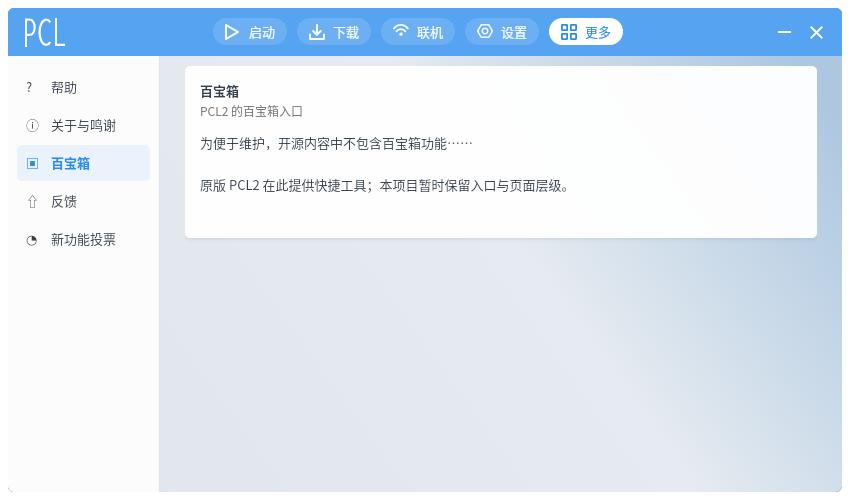
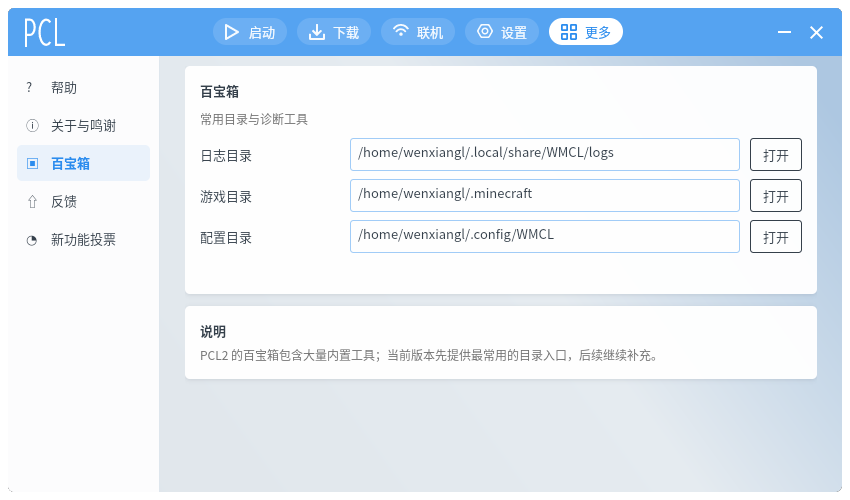
UI: functional toolbox page

Changed region(s): [[0.2141, 0.21, 0.9788, 0.78], [0.8565, 0.27, 0.8871, 0.3]]

diff --git a/src/WMCL.App/ViewModels/ToolboxViewModel.cs b/src/WMCL.App/ViewModels/ToolboxViewModel.cs
@@ -1,0 +1,53 @@
+using System.Diagnostics;
+using CommunityToolkit.Mvvm.ComponentModel;
+using CommunityToolkit.Mvvm.Input;
+using WMCL.App.Services;
+using WMCL.Core;
+
+namespace WMCL.App.ViewModels;
+
+public partial class ToolboxViewModel : ViewModelBase
+{
+    private readonly AppServices _services;
+
+    public ToolboxViewModel(AppServices services)
+    {
+        _services = services;
+    }
+
+    public string LogsDirectory => WmclPaths.LogsDirectory;
+    public string GameDirectory => _services.Settings.GameDirectory;
+    public string ConfigDirectory => WmclPaths.ConfigDirectory;
+
+    [ObservableProperty]
+    private string _status = "";
+
+    [RelayCommand]
+    private void OpenLogs() => Open(WmclPaths.LogsDirectory);
+
+    [RelayCommand]
+    private void OpenGame() => Open(_services.Settings.GameDirectory);
+
+    [RelayCommand]
+    private void OpenConfig() => Open(WmclPaths.ConfigDirectory);
+
+    private void Open(string path)
+    {
+        try
+        {
+            Directory.CreateDirectory(path);
+            var start = new ProcessStartInfo
+            {
+                FileName = OperatingSystem.IsWindows() ? path : "xdg-open",
+                Arguments = OperatingSystem.IsWindows() ? "" : path,
+                UseShellExecute = OperatingSystem.IsWindows()
+            };
+            Process.Start(start);
+            Status = "已打开：" + path;
+        }
+        catch (Exception ex)
+        {
+            Status = "打开失败：" + ex.Message;
+        }
+    }
+}

diff --git a/src/WMCL.App/ViewModels/MainWindowViewModel.cs b/src/WMCL.App/ViewModels/MainWindowViewModel.cs
@@ -63,11 +63,7 @@ public partial class MainWindowViewModel : ViewModelBase, IDisposable
             + "PCL2 官方房间服务依赖闭源配置，开源版无法获取，因此这里提供替代方案；"
             + "官方房间码/自动房间列表不可用。");
         Help = new HelpViewModel();
-        Toolbox = new MorePageViewModel(
-            "百宝箱",
-            "PCL2 的百宝箱入口",
-            "为便于维护，开源内容中不包含百宝箱功能……\n\n"
-            + "原版 PCL2 在此提供快捷工具；本项目暂时保留入口与页面层级。");
+        Toolbox = new ToolboxViewModel(Services);
         Feedback = new MorePageViewModel(
             "反馈",
             "问题反馈与诊断信息",
@@ -329,7 +325,7 @@ public partial class MainWindowViewModel : ViewModelBase, IDisposable
     public LinkViewModel Link { get; }
     public MorePageViewModel LinkSettings { get; }
     public HelpViewModel Help { get; }
-    public MorePageViewModel Toolbox { get; }
+    public ToolboxViewModel Toolbox { get; }
     public MorePageViewModel Feedback { get; }
     public MorePageViewModel Vote { get; }
 

diff --git a/src/WMCL.App/Views/ToolboxView.axaml.cs b/src/WMCL.App/Views/ToolboxView.axaml.cs
@@ -1,0 +1,8 @@
+using Avalonia.Controls;
+
+namespace WMCL.App.Views;
+
+public partial class ToolboxView : UserControl
+{
+    public ToolboxView() => InitializeComponent();
+}

diff --git a/docs/UI_REFERENCE.md b/docs/UI_REFERENCE.md
@@ -38,6 +38,7 @@
 - PCL-ME 的 `PclCard` 标题栏/内容边距还未完全复刻；
 - PCL-ME 启动页的账号资料卡、启动按钮样式与本项目仍有差异；
 - PCL-CE 的 PageHomepage 新闻主页/PageTools 尚未实现；
+- 百宝箱改为可用工具页（日志/游戏/配置目录），不再显示占位说明；
 - 实例页加入 150px 分区导航（概览/服务器/导出/设置/安装/Mod/资源包/存档/光影），右侧全宽卡片，顶部实例下拉切换；
 - “更多”移除自定义“实例管理”项；实例设置按 PCL2 从版本选择进入，并作为子页入栈；
 - 整合包页改为左 300 / 右自适应，并补空状态；
